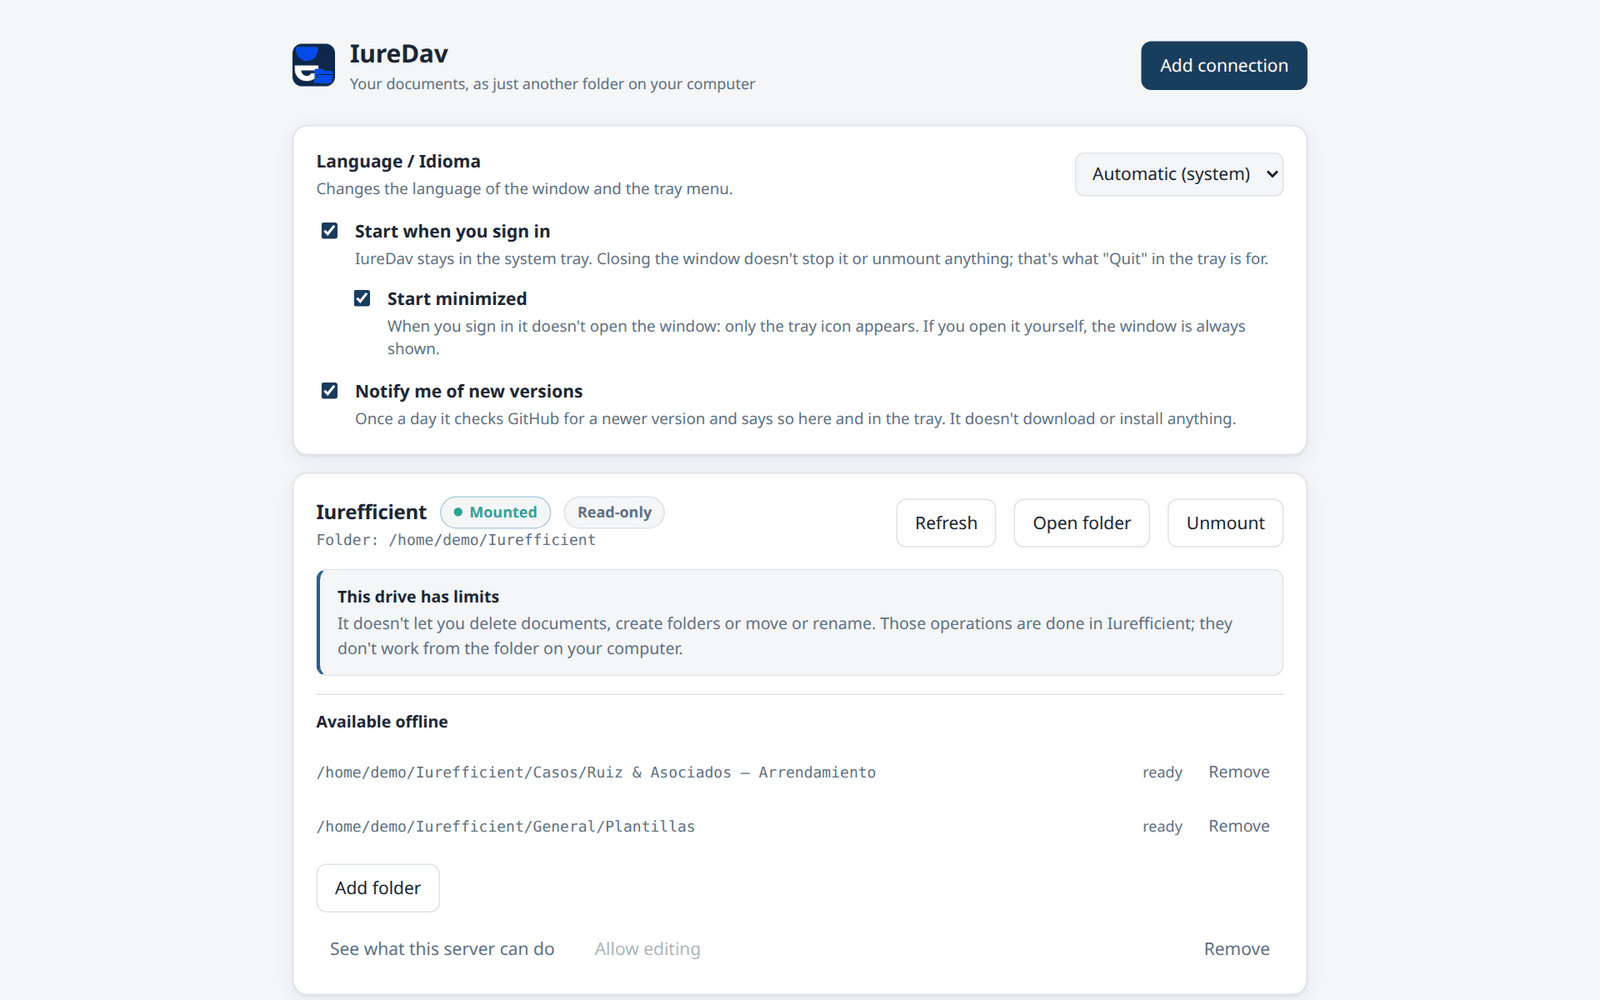
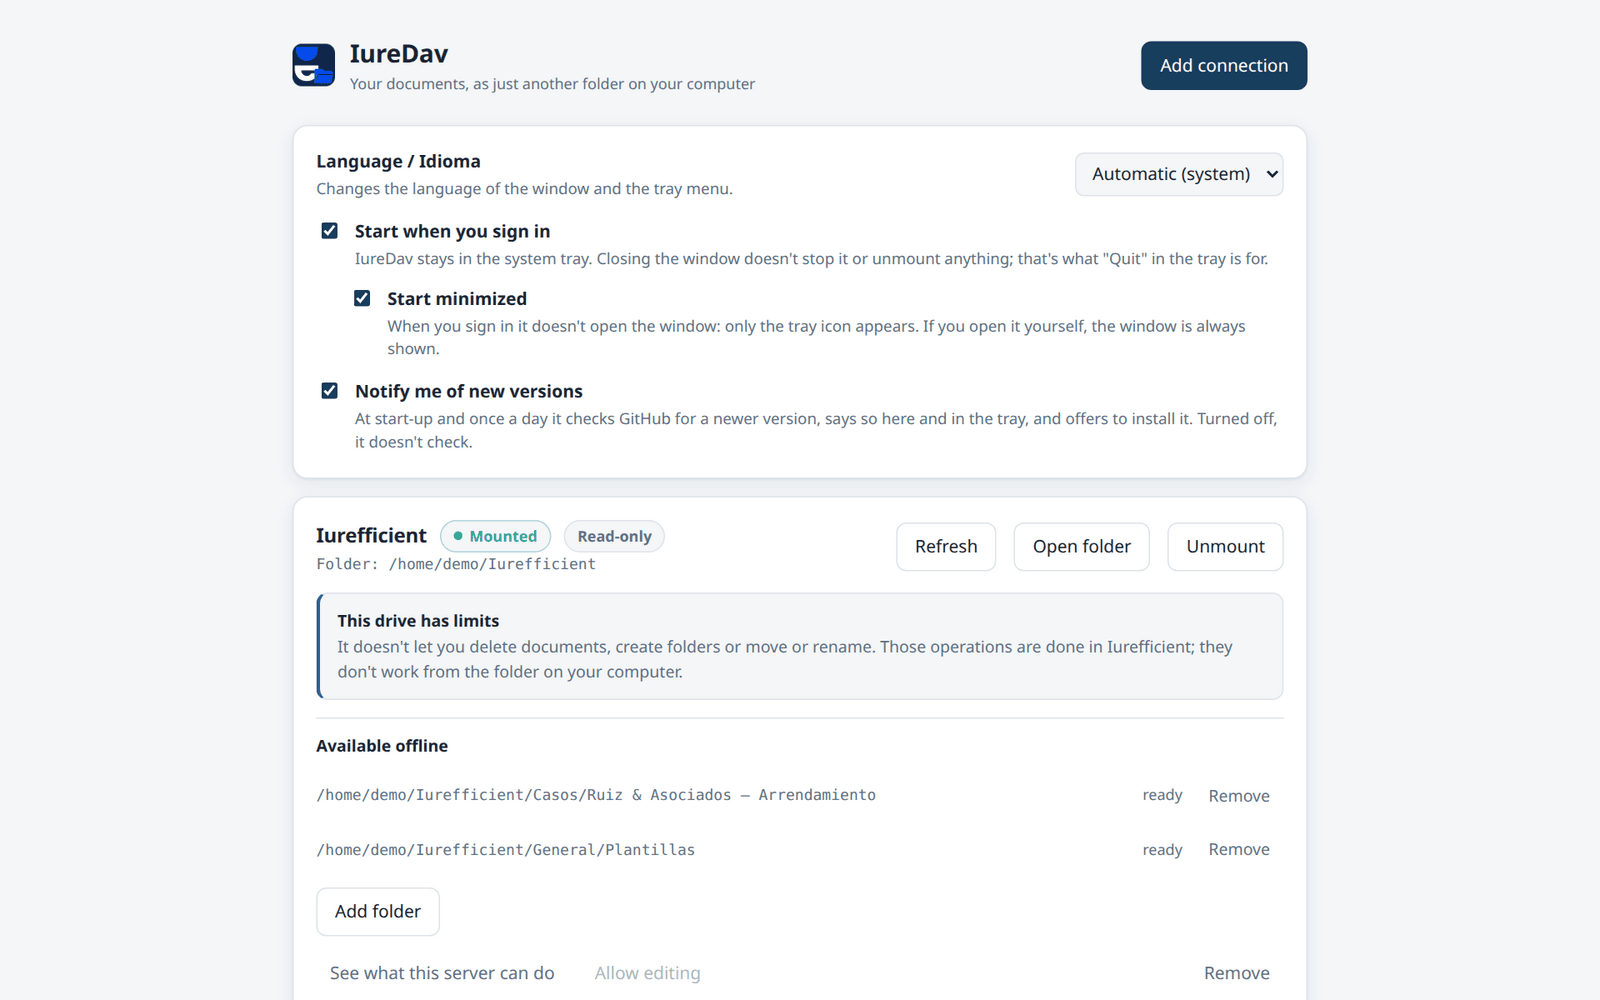
Textos del actualizador al día y «iureditor» en minúsculas
- La preferencia «Avisar de versiones nuevas» ya no dice que no descarga ni
  instala nada: consulta GitHub al arrancar y una vez al día y ofrece instalar.
- El aviso de versión nueva ya no manda a descargar el .deb/.rpm a mano: desde
  0.8.1 también se instala desde la app (pide la contraseña de administrador).
- El editor se llama «iureditor» en la interfaz, los README, los comentarios y
  el arnés de capturas.
- Capturas y GIF del README regenerados con los textos nuevos.

Changed region(s): [[0.1875, 0.403, 0.8125, 0.682], [0.1875, 0.713, 0.8125, 1.0], [0.7188, 0.744, 0.8125, 0.868]]

diff --git a/src/i18n.ts b/src/i18n.ts
@@ -25,7 +25,7 @@ const en = {
   // Versión nueva
   "nueva.titulo": "A new version of IureDav is available: {version}",
   "nueva.texto":
-    "It can be installed from here (AppImage, Windows and macOS): the drives are unmounted, the update is installed and IureDav restarts. If you installed it with .deb or .rpm, download the new package.",
+    "It can be installed from here: the drives are unmounted, the signed update is downloaded and installed, and IureDav restarts. With the .deb or .rpm package it asks for the administrator password.",
   "nueva.comprobando": "Checking…",
   "nueva.error":
     "Couldn't update from the app ({error}). Download the installer from the release page.",
@@ -85,7 +85,7 @@ const en = {
     "When you sign in it doesn't open the window: only the tray icon appears. If you open it yourself, the window is always shown.",
   "pref.avisar": "Notify me of new versions",
   "pref.avisar.detalle":
-    "Once a day it checks GitHub for a newer version and says so here and in the tray. It doesn't download or install anything.",
+    "At start-up and once a day it checks GitHub for a newer version, says so here and in the tray, and offers to install it. Turned off, it doesn't check.",
 
   // Tarjeta de conexión
   "conexion.montado": "Mounted",
@@ -150,7 +150,7 @@ const en = {
   "form.codigo.ejemplo": "6 digits",
   "form.passCuenta.ejemplo": "The same one you use to sign in on the web",
   "form.passCuenta.pista":
-    "Your password isn't stored: IureDav signs in, asks the instance for an app password in this computer's name and saves it in the system keychain, shared with IureTranscribe, IureEditor and IureOCR.",
+    "Your password isn't stored: IureDav signs in, asks the instance for an app password in this computer's name and saves it in the system keychain, shared with IureTranscribe, iureditor and IureOCR.",
   "form.conectando": "Connecting…",
   "form.verificar": "Verify",
   "form.conectar": "Connect and get access",
@@ -219,7 +219,7 @@ const en = {
   // Apps de Iurefficient
   "apps.titulo": "Iurefficient apps",
   "apps.texto":
-    "IureDav mounts your documents as a drive; IureTranscribe transcribes meetings and audio; IureEditor edits documents and uploads versions; IureOCR recognizes the text of scanned documents and images with Tesseract and includes PDF tools. They share the account and the keychain.",
+    "IureDav mounts your documents as a drive; IureTranscribe transcribes meetings and audio; iureditor edits documents and uploads versions; IureOCR recognizes the text of scanned documents and images with Tesseract and includes PDF tools. They share the account and the keychain.",
   "apps.estaApp": "this app",
   "apps.instalada": "installed",
   "apps.noInstalada": "not installed",
@@ -241,7 +241,7 @@ const es: Record<Clave, string> = {
 
   "nueva.titulo": "Hay una versión nueva de IureDav: {version}",
   "nueva.texto":
-    "Puede instalarse desde aquí (AppImage, Windows y macOS): se desmontan las unidades, se instala y IureDav se reinicia. Si se instaló con .deb o .rpm, descarga el paquete nuevo.",
+    "Puede instalarse desde aquí: se desmontan las unidades, se descarga e instala la actualización firmada y IureDav se reinicia. Con el paquete .deb o .rpm pide la contraseña de administrador.",
   "nueva.comprobando": "Comprobando…",
   "nueva.error":
     "No se pudo actualizar desde la app ({error}). Descarga el instalador desde la página de la release.",
@@ -296,7 +296,7 @@ const es: Record<Clave, string> = {
     "Al iniciar sesión no abre la ventana: solo aparece el icono en la bandeja. Si lo abres tú, la ventana se muestra siempre.",
   "pref.avisar": "Avisar de versiones nuevas",
   "pref.avisar.detalle":
-    "Una vez al día consulta en GitHub si hay una versión más nueva y lo dice aquí y en la bandeja. No descarga ni instala nada.",
+    "Al arrancar y una vez al día consulta en GitHub si hay una versión más nueva, lo dice aquí y en la bandeja y ofrece instalarla. Apagado, no consulta.",
 
   "conexion.montado": "Montado",
   "conexion.desmontado": "Desmontado",
@@ -357,7 +357,7 @@ const es: Record<Clave, string> = {
   "form.codigo.ejemplo": "6 dígitos",
   "form.passCuenta.ejemplo": "La misma con la que entras a la web",
   "form.passCuenta.pista":
-    "Tu contraseña no se guarda: IureDav inicia sesión, pide a la instancia una contraseña de aplicación a nombre de este equipo y la guarda en el llavero del sistema, compartido con IureTranscribe, IureEditor e IureOCR.",
+    "Tu contraseña no se guarda: IureDav inicia sesión, pide a la instancia una contraseña de aplicación a nombre de este equipo y la guarda en el llavero del sistema, compartido con IureTranscribe, iureditor e IureOCR.",
   "form.conectando": "Conectando…",
   "form.verificar": "Verificar",
   "form.conectar": "Conectar y obtener acceso",
@@ -423,7 +423,7 @@ const es: Record<Clave, string> = {
 
   "apps.titulo": "Apps de Iurefficient",
   "apps.texto":
-    "IureDav monta tus documentos como una unidad; IureTranscribe transcribe reuniones y audios; IureEditor edita los documentos y sube versiones; IureOCR reconoce el texto de documentos escaneados e imágenes con Tesseract y trae herramientas PDF. Comparten la cuenta y el llavero.",
+    "IureDav monta tus documentos como una unidad; IureTranscribe transcribe reuniones y audios; iureditor edita los documentos y sube versiones; IureOCR reconoce el texto de documentos escaneados e imágenes con Tesseract y trae herramientas PDF. Comparten la cuenta y el llavero.",
   "apps.estaApp": "esta app",
   "apps.instalada": "instalada",
   "apps.noInstalada": "no instalada",

diff --git a/scripts/readme-media/mock.ts b/scripts/readme-media/mock.ts
@@ -124,7 +124,7 @@ const presets = [
 
 const apps = [
   { id: "transcribe", name: "IureTranscribe", description: L("Transcribes audio and video locally, records meetings and generates summaries and minutes.", "Transcribe audio y video localmente, graba reuniones y genera resúmenes y minutas."), installed: true, path: "/usr/bin/iuretranscribe", downloadUrl: "https://github.com/ellaguno/iuretranscribe/releases/latest", latestVersion: "0.7.0" },
-  { id: "editor", name: "IureEditor", description: L("Markdown editor with diagrams, formulas and export to PDF and DOCX.", "Editor Markdown con diagramas, fórmulas y exportación a PDF y DOCX."), installed: true, path: "/usr/bin/iureditor", downloadUrl: "https://github.com/ellaguno/iureditor/releases/latest", latestVersion: "1.9.2" },
+  { id: "editor", name: "iureditor", description: L("Markdown editor with diagrams, formulas and export to PDF and DOCX.", "Editor Markdown con diagramas, fórmulas y exportación a PDF y DOCX."), installed: true, path: "/usr/bin/iureditor", downloadUrl: "https://github.com/ellaguno/iureditor/releases/latest", latestVersion: "1.9.2" },
   { id: "dav", name: "IureDav", description: L("Mounts your Iurefficient documents as a drive on your computer.", "Monta los documentos de Iurefficient como una unidad de tu equipo."), installed: true, path: null, downloadUrl: "https://github.com/ellaguno/iuredav/releases/latest", latestVersion: "0.8.1" },
   { id: "ocr", name: "IureOCR", description: L("Recognizes text in scans and photos on your computer and produces searchable PDFs ready for Iurefficient.", "Reconoce el texto de escaneos y fotos en tu equipo y deja PDF buscables listos para Iurefficient."), installed: false, path: null, downloadUrl: "https://github.com/ellaguno/iureocr/releases/latest", latestVersion: "0.5.1" },
 ];

diff --git a/src/api.ts b/src/api.ts
@@ -194,7 +194,7 @@ export const api = {
 
   acercaDe: () => invoke<AcercaDe>("acerca_de"),
 
-  /** Apps hermanas (IureTranscribe, IureEditor, IureOCR): con red consulta también la última versión. */
+  /** Apps hermanas (IureTranscribe, iureditor, IureOCR): con red consulta también la última versión. */
   apps: (conRed: boolean) => invoke<EstadoApp[]>("apps_estado", { conRed }),
   lanzarApp: (app: AppId) => invoke<void>("lanzar_app", { app }),
   /** Enlaces `iuredav://` con los que se abrió la app. */

diff --git a/src/componentes/FormularioConexion.tsx b/src/componentes/FormularioConexion.tsx
@@ -69,7 +69,7 @@ export default function FormularioConexion({ onGuardado, onCancelar }: Props) {
   }, [idioma]);
 
   useEffect(() => {
-    // Si otra app de Iurefficient (IureTranscribe, IureEditor, IureOCR) ya inició
+    // Si otra app de Iurefficient (IureTranscribe, iureditor, IureOCR) ya inició
     // sesión en este equipo, se parte de esa instancia y correo: solo falta la contraseña.
     api.cuentaActiva().then((c) => {
       if (!c) return;

diff --git a/crates/iuredav-core/src/actualizaciones.rs b/crates/iuredav-core/src/actualizaciones.rs
@@ -1,10 +1,9 @@
 //! Aviso de versiones nuevas.
 //!
 //! Solo avisa: consulta la ultima release publicada en GitHub, la compara con la
-//! version propia y, si hay una mas nueva, devuelve donde descargarla. No instala
-//! nada. Instalar desde dentro exigiria firmar los paquetes y reemplazar un
-//! binario que puede tener montajes activos; sin firma de codigo, la mitad de la
-//! gracia se pierde, asi que eso queda para mas adelante.
+//! version propia y, si hay una mas nueva, devuelve donde descargarla. Este modulo
+//! no instala nada: la instalacion la hace la interfaz con el actualizador de Tauri
+//! (`src/actualizador.ts`), con los paquetes firmados de `latest.json`.
 //!
 //! La consulta es anonima y sin credenciales: GitHub permite sesenta por hora y
 //! direccion, y aqui se hace una al arrancar y otra al dia mientras el programa

diff --git a/src-tauri/src/bandeja.rs b/src-tauri/src/bandeja.rs
@@ -162,7 +162,8 @@ fn al_elegir(app: &AppHandle, evento: MenuEvent) {
         "mostrar" => mostrar_ventana(app),
         "actualizar" => {
             // Abre la pagina de la release en el navegador: ahi estan los
-            // instaladores. No se descarga ni se instala nada desde aqui.
+            // instaladores. Desde la bandeja no se instala nada; eso lo hace
+            // «Actualizar ahora» en la ventana.
             let app = app.clone();
             tauri::async_runtime::spawn(async move {
                 let nueva = app.state::<Estado>().actualizacion.lock().await.clone();

diff --git a/crates/iuredav-core/src/cuenta.rs b/crates/iuredav-core/src/cuenta.rs
@@ -82,7 +82,7 @@ pub async fn iniciar_sesion(
     };
 
     // La sesion (cookies de acceso, refresco y CSRF) ya la guardo el conector en el
-    // llavero compartido con IureTranscribe, IureEditor e IureOCR al iniciar sesion
+    // llavero compartido con IureTranscribe, iureditor e IureOCR al iniciar sesion
     // (`Session::login` / `verify_totp` llaman a `push_shared`). Aqui solo se anota
     // la cuenta activa para que las demas arranquen ya conectadas sin volver a
     // pedir dominio ni correo.

diff --git a/src-tauri/src/lib.rs b/src-tauri/src/lib.rs
@@ -638,7 +638,7 @@ pub struct AcercaDe {
 }
 
 // ---------------------------------------------------------------------------
-// Apps hermanas (IureTranscribe, IureEditor, IureOCR) y enlaces `iuredav://`.
+// Apps hermanas (IureTranscribe, iureditor, IureOCR) y enlaces `iuredav://`.
 // ---------------------------------------------------------------------------
 
 /// Las apps de escritorio de Iurefficient: instaladas aquí y última versión publicada.

diff --git a/CHANGELOG.md b/CHANGELOG.md
@@ -18,6 +18,17 @@ proceso se detiene antes de construir nada.
 
 ## [Sin publicar]
 
+### Corregido
+
+- **Textos del actualizador.** La preferencia «Avisar de versiones nuevas»
+  seguía diciendo que no descarga ni instala nada; ahora explica que consulta
+  GitHub al arrancar y una vez al día, ofrece instalar la versión nueva y que,
+  apagada, no consulta. El aviso de versión nueva ya no pide a quien instaló con
+  `.deb` o `.rpm` que descargue el paquete a mano: también se instala desde la app
+  (pide la contraseña de administrador).
+- El editor de la suite se llama ahora «iureditor», en minúsculas, en la
+  interfaz y en la documentación.
+
 ## [0.8.1] — 2026-09-29
 
 ### Corregido
@@ -68,7 +79,7 @@ proceso se detiene antes de construir nada.
 
 - **Una sola sesión para las tres apps.** Al iniciar sesión con la cuenta de
   Iurefficient, IureDav deja anotada la instancia y el correo para IureTranscribe
-  e IureEditor, que arrancan ya conectadas. A la inversa, si otra app inició
+  e iureditor, que arrancan ya conectadas. A la inversa, si otra app inició
   sesión primero, el formulario de conexión nueva viene con el dominio y el
   correo puestos y sólo pide la contraseña. La sesión se sincroniza con el
   llavero antes de cada renovación, para que dos apps abiertas a la vez no se
@@ -139,7 +150,7 @@ proceso se detiene antes de construir nada.
 ### Añadido
 
 - **Apps de Iurefficient.** Tarjeta en la lista de conexiones con las tres apps
-  de escritorio (IureTranscribe, IureEditor e IureDav): cuáles están instaladas
+  de escritorio (IureTranscribe, iureditor e IureDav): cuáles están instaladas
   en este equipo, la última versión publicada y de dónde descargarlas o abrirlas.
 - **Enlaces `iuredav://`.** `iuredav://montar?perfil=<id>` monta una conexión y
   `iuredav://nueva` abre el formulario; sirven para lanzar IureDav desde otra app
@@ -155,7 +166,7 @@ proceso se detiene antes de construir nada.
   ahora»: desmonta las unidades, descarga el instalador firmado, lo aplica y
   reinicia IureDav. Funciona con el AppImage en Linux y con los instaladores de
   Windows y macOS; con `.deb` o `.rpm` sigue enlazando la descarga. Las releases
-  publican un `latest.json` firmado con la misma llave que IureEditor e
+  publican un `latest.json` firmado con la misma llave que iureditor e
   IureTranscribe.
 
 ## [0.5.0]
@@ -169,7 +180,7 @@ proceso se detiene antes de construir nada.
   este equipo y la guarda en el llavero del sistema. Tú nunca ves el `iurdav_…`
   ni tienes que abrir tu perfil. La contraseña de la cuenta no se guarda.
 - **Llavero compartido con las demás apps.** La contraseña de aplicación y la
-  sesión se guardan en la misma entrada que usan IureTranscribe e IureEditor
+  sesión se guardan en la misma entrada que usan IureTranscribe e iureditor
   (servicio `iurefficient`), así que conectar en una vale para todas. Sigue
   disponible «Ya tengo una contraseña de aplicación» para el caso manual.
 - IureDav usa ahora el conector común

diff --git a/README.es.md b/README.es.md
@@ -83,7 +83,7 @@ la unidad y qué explicarte cuando algo no se puede hacer.
   (Nextcloud, ownCloud, Synology, Seafile, `mod_dav`…).
 - **Entrar con tu cuenta de Iurefficient**: IureDav obtiene una contraseña de
   aplicación a nombre de este equipo y la guarda en el llavero que comparte con
-  IureTranscribe, IureEditor e IureOCR. Iniciar sesión una vez sirve para todas.
+  IureTranscribe, iureditor e IureOCR. Iniciar sesión una vez sirve para todas.
 - **Carpetas sin conexión**: marca una carpeta y se descarga para que puedas
   abrirla sin internet.
 - **Vive en la bandeja**: cerrar la ventana no desmonta; arranca con la sesión
@@ -145,7 +145,7 @@ tienes), IureDav inicia sesión, le pide a la instancia una contraseña de
 aplicación a nombre de este equipo y la guarda en el llavero del sistema. Tú nunca
 ves el `iurdav_…`, y la contraseña de la cuenta no se guarda. La contraseña de
 aplicación y la sesión viven en la misma entrada del llavero (servicio
-`iurefficient`) que usan IureTranscribe, IureEditor e IureOCR, así que si otra app
+`iurefficient`) que usan IureTranscribe, iureditor e IureOCR, así que si otra app
 inició sesión primero, el formulario viene con el dominio y el correo puestos.
 Sigue disponible *Ya tengo una contraseña de aplicación* para el caso manual, con
 un botón que abre la página de perfil de tu instancia donde se genera.
@@ -251,7 +251,7 @@ se puede apagar en la tarjeta de preferencias.
 | App | Qué hace |
 |---|---|
 | [IureTranscribe](https://github.com/ellaguno/iuretranscribe) | Transcripción local con Whisper, grabación en vivo con quién habló, resumen y minuta. |
-| [IureEditor](https://github.com/ellaguno/iureditor) | Editor Markdown WYSIWYG con Mermaid, LaTeX y exportación a PDF/DOCX. |
+| [iureditor](https://github.com/ellaguno/iureditor) | Editor Markdown WYSIWYG con Mermaid, LaTeX y exportación a PDF/DOCX. |
 | **IureDav** | Monta un servidor WebDAV (o Iurefficient) como unidad. |
 | [IureOCR](https://github.com/ellaguno/iureocr) | OCR local que convierte escaneos en PDF con texto buscable. |
 | [iureTI](https://github.com/ellaguno/iureTI) | Sonda de descubrimiento de activos de TI para el inventario de Iurefficient. |

diff --git a/README.md b/README.md
@@ -83,7 +83,7 @@ mount the drive and what to explain to you when something can't be done.
   (Nextcloud, ownCloud, Synology, Seafile, `mod_dav`…).
 - **Sign in with your Iurefficient account**: IureDav gets an app password in
   this computer's name and keeps it in the keychain it shares with
-  IureTranscribe, IureEditor and IureOCR. Signing in once serves all of them.
+  IureTranscribe, iureditor and IureOCR. Signing in once serves all of them.
 - **Offline folders**: mark a folder and it's downloaded so you can open it
   without internet.
 - **Lives in the tray**: closing the window doesn't unmount; it starts with the
@@ -142,7 +142,7 @@ have one), IureDav signs in, asks the instance for an app password in this
 computer's name and saves it in the system keychain. You never see the
 `iurdav_…`, and the account password isn't stored. The app password and the
 session live in the same keychain entry (service `iurefficient`) that
-IureTranscribe, IureEditor and IureOCR use, so if another app signed in first the
+IureTranscribe, iureditor and IureOCR use, so if another app signed in first the
 form comes with the domain and email already filled in. *I already have an app
 password* is still there for the manual case, with a button that opens the
 profile page of your instance where you generate it.
@@ -248,7 +248,7 @@ the preferences card.
 | App | What it does |
 |---|---|
 | [IureTranscribe](https://github.com/ellaguno/iuretranscribe) | Local Whisper transcription, live recording with who-spoke, summaries and minutes. |
-| [IureEditor](https://github.com/ellaguno/iureditor) | WYSIWYG Markdown editor with Mermaid, LaTeX and PDF/DOCX export. |
+| [iureditor](https://github.com/ellaguno/iureditor) | WYSIWYG Markdown editor with Mermaid, LaTeX and PDF/DOCX export. |
 | **IureDav** | Mount a WebDAV server (or Iurefficient) as a drive. |
 | [IureOCR](https://github.com/ellaguno/iureocr) | Local OCR that turns scans into searchable PDFs. |
 | [iureTI](https://github.com/ellaguno/iureTI) | IT asset discovery probe for the Iurefficient inventory. |
